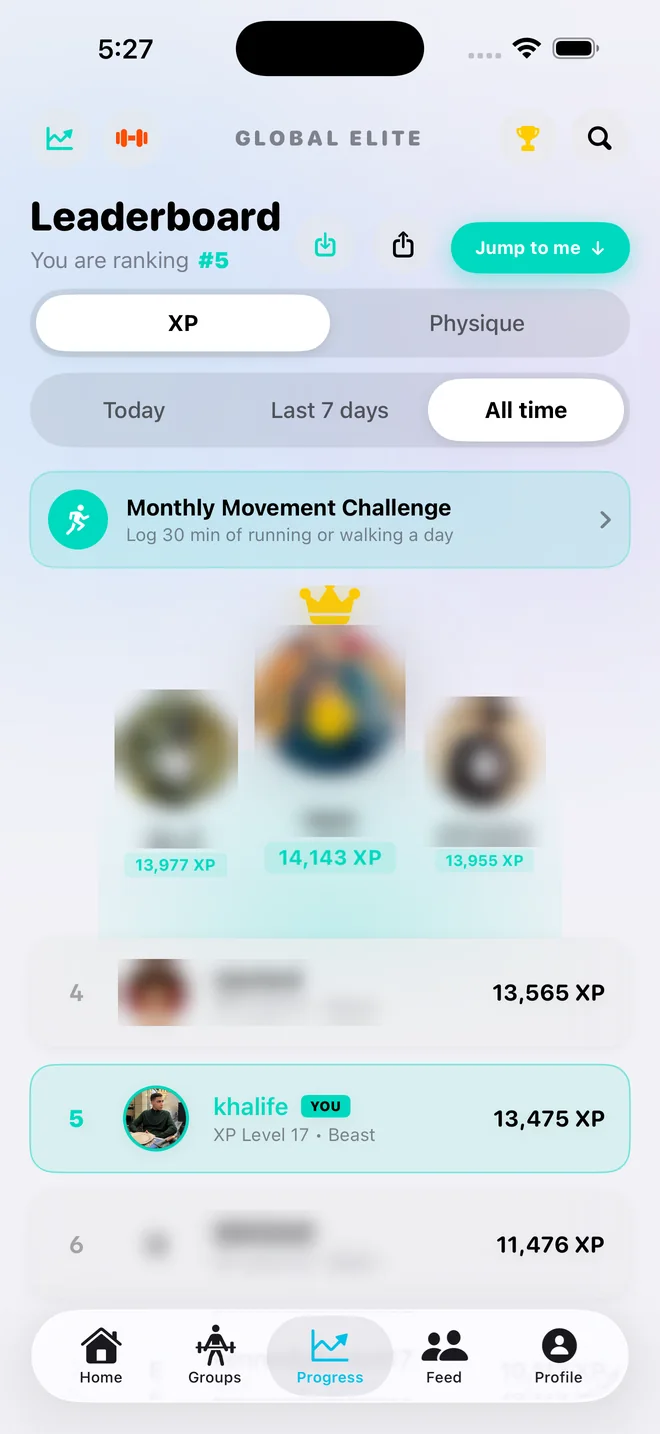
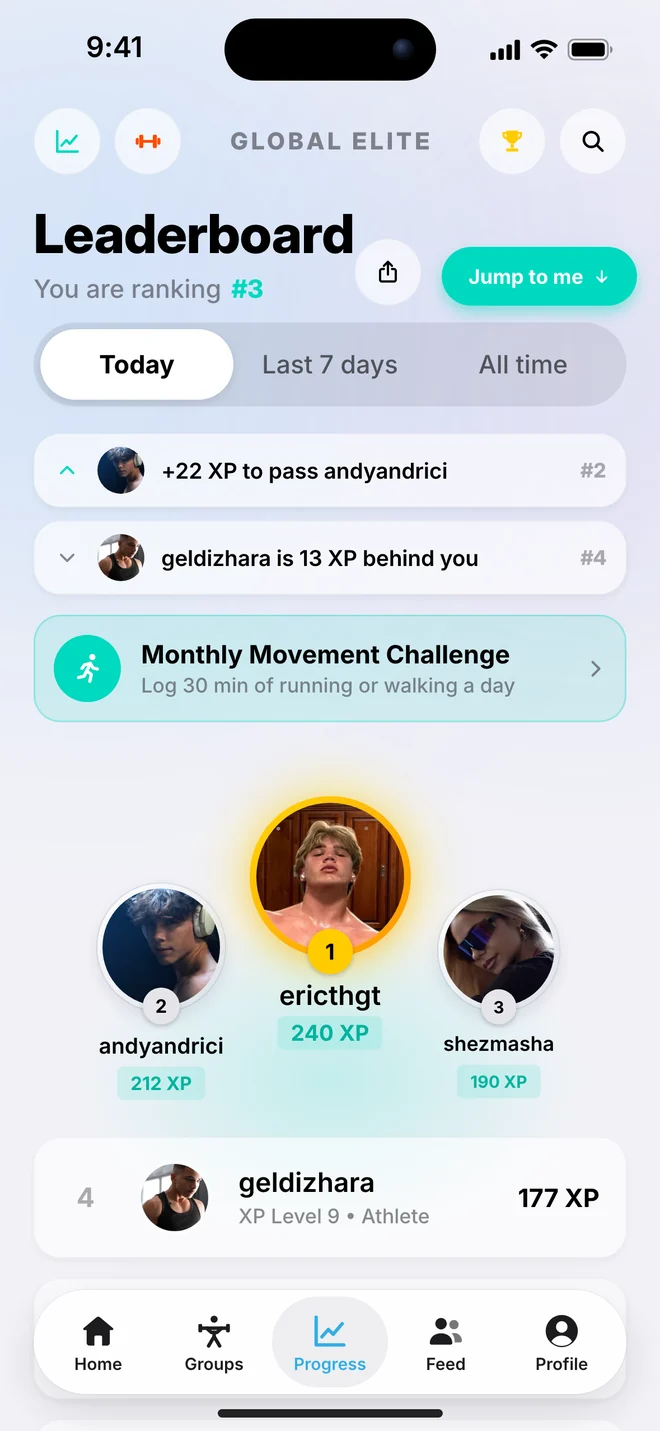
Leaderboard shot: the crew on the podium, no blur
Replaces the blurred real leaderboard with the App Store leaderboard design:
ericthgt, andyandrici and shezmasha on the podium and geldizhara fourth
(owner confirmed their consent). The features intro no longer says every
screen has real data.

diff --git a/src/components/Features.tsx b/src/components/Features.tsx
@@ -83,7 +83,7 @@ const features: Feature[] = [
       "Weekly Hall of Fame podiums",
       "Search for friends and follow them",
     ],
-    shots: [{ src: "/screens/leaderboard.webp", alt: "XP leaderboard with podium and your rank" }],
+    shots: [{ src: "/screens/leaderboard.webp", alt: "Leaderboard podium: ericthgt, andyandrici and shezmasha, with geldizhara fourth" }],
   },
   {
     eyebrow: "Community",
@@ -125,7 +125,7 @@ export default function Features() {
             Everything you need to <span className="text-gradient">get fit</span>, in one app
           </h2>
           <p className="text-dark-muted text-lg leading-relaxed">
-            These are real screens from FunFit, with real data.
+            Screens from the FunFit app.
           </p>
         </motion.div>
 

diff --git a/src/components/Phone.tsx b/src/components/Phone.tsx
@@ -1,5 +1,7 @@
-// A real app screenshot in a phone frame. Screens live in /public/screens, captured from
-// the app (iPhone 17 Pro Max simulator, signed in to a real account) and exported as webp.
+// An app screenshot in a phone frame. Screens live in /public/screens: most were captured from
+// the app (iPhone 17 Pro Max simulator, owner's account). leaderboard.webp is the App Store
+// leaderboard design with the crew on the podium (owner request 2026-10-20, consent given);
+// its source is Docs/Store Screenshots/src/slides/_web-leaderboard.html in the iOS repo.
 export default function Phone({
   src,
   alt,
